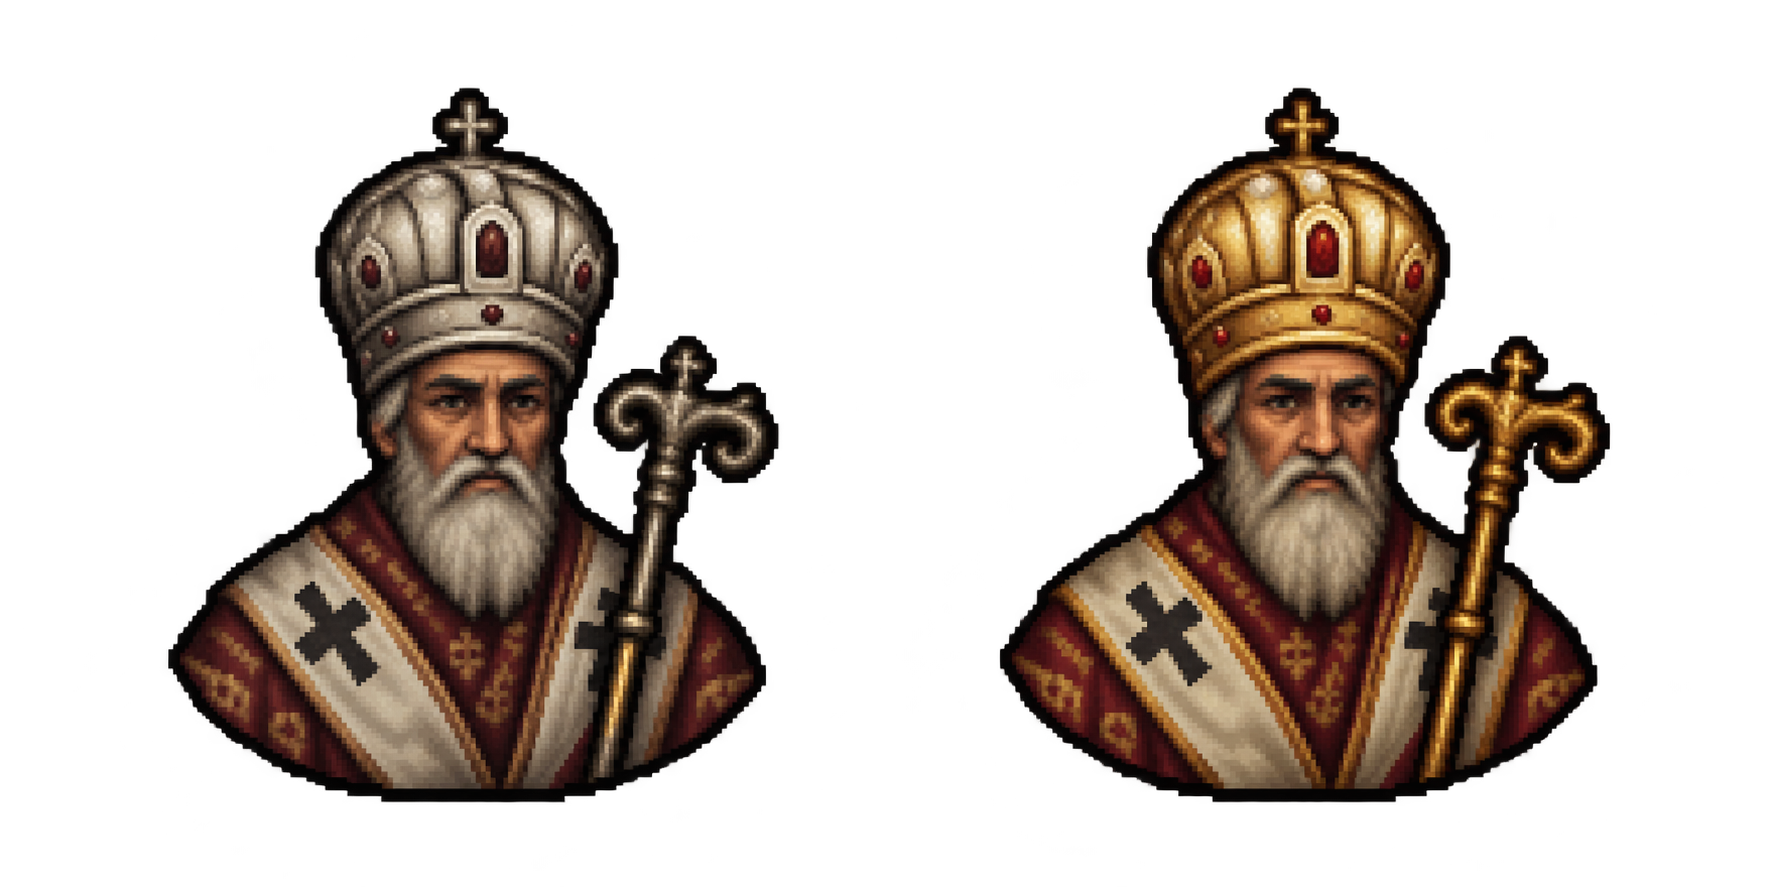
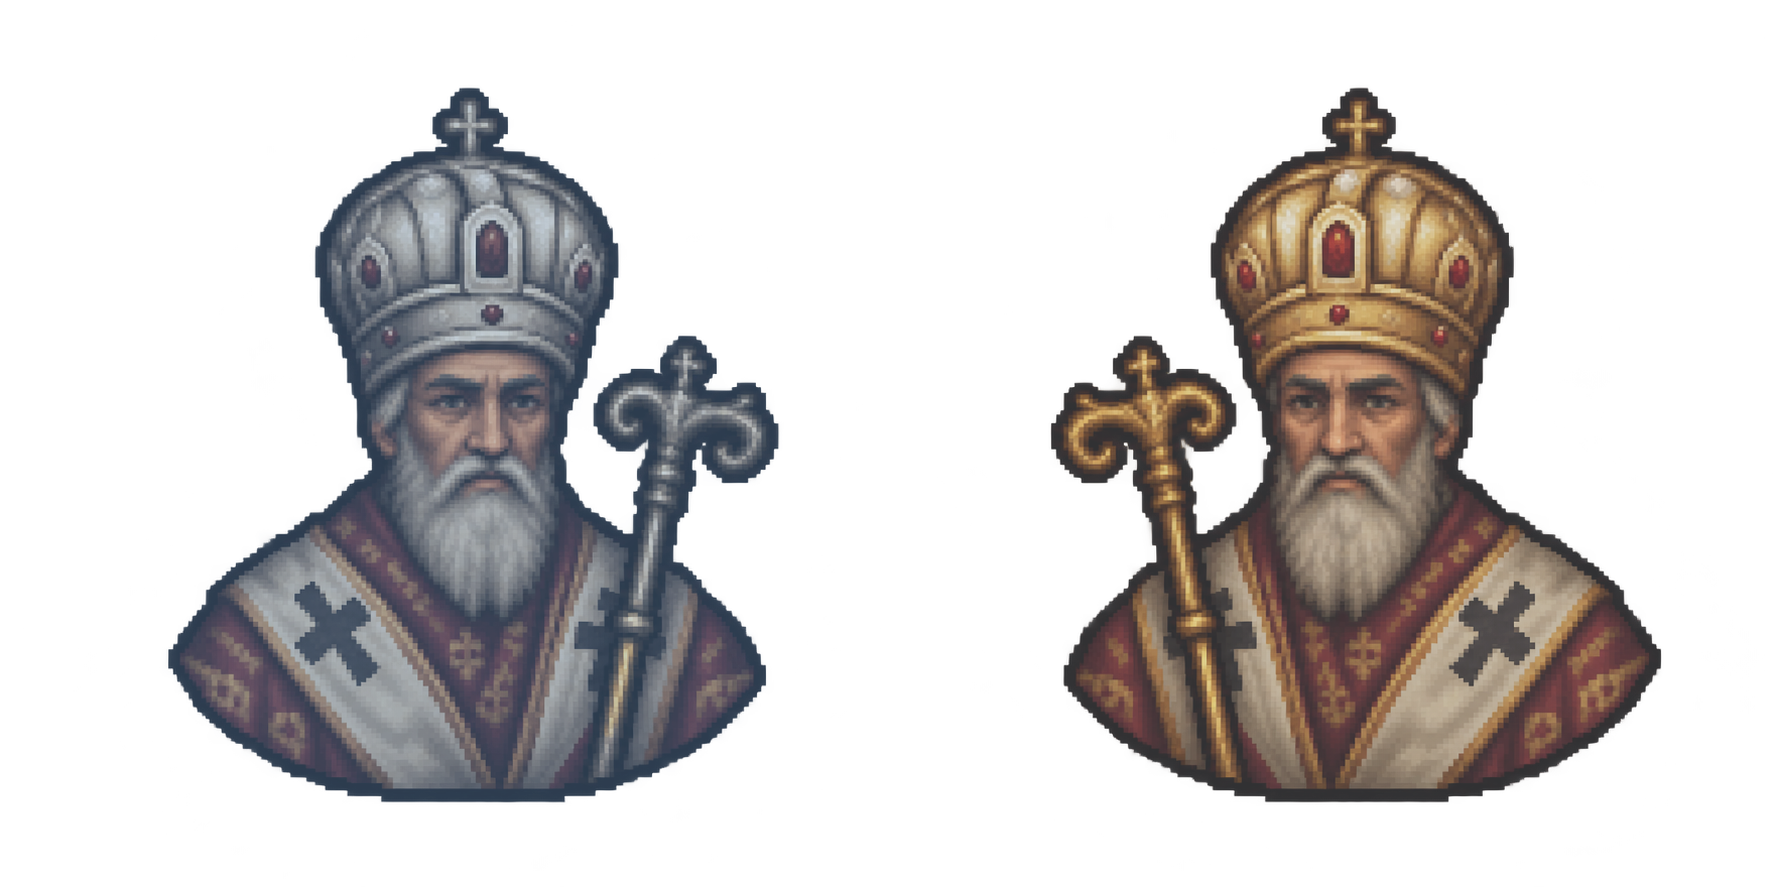
feat(gc_church_ui): Покращити UI, довідку та тестування Ієрархічної Спроможності греко-католиків
Розширено детальну інформацію про механіки Ієрархічної Спроможності (HC) в грі та документації. Оновлено іконки єпископів: змінено кольорову гаму та віддзеркалено іконку високої спроможності для кращого візуального зв'язку зі шкалою. Додано автоматизовані тести для перевірки узгодженості інтерфейсу, довідки та внутрішньої логіки.

diff --git a/tests/check_gc_capacity_ui.py b/tests/check_gc_capacity_ui.py
@@ -1,0 +1,102 @@
+"""Keep Greek Catholic Hierarchical Capacity help and art aligned with mechanics."""
+import struct
+from pathlib import Path
+
+from clausewitz_testlib import ROOT, named_block, read
+
+gui = read("interface/countryreligionview.gui")
+controls = read("common/custom_gui/RIP_church_controls.txt")
+assert (
+    'name = "rip_church_gc_capacity_high_icon" scripted = yes '
+    'spriteType = "GFX_rip_church_gc_capacity_high" position = { x=244 y=273 }'
+) in gui
+assert controls.count("tooltip = rip_church_gc_resources_tt") == 2
+
+help_text = (
+    "native Patriarch Authority bar (0–100)",
+    "+7.5 HC per year (+0.625 per month)",
+    "Country-specific events and mission rewards",
+    "Liturgy grants +1 yearly prestige",
+    "Learning grants -5% development cost and -5% technology cost",
+    "Almsgiving grants -1 global unrest and -10% stability cost",
+    "20 HC plus 75 ducats for Infrastructure",
+    "20 HC plus 100 ducats for Coexistence",
+    "A parish visit costs 5 HC, 100 ducats and 25 ADM",
+    "five-point bands",
+    "at 100, the country has -2% global missionary strength and -10% church influence",
+)
+localisation_generator = read("tools/build_church_localisation.py")
+for phrase in help_text:
+    assert phrase in localisation_generator, ("generator", phrase)
+for language in ("english", "french", "german", "spanish"):
+    localisation = read(
+        f"localisation/replace/zzzz_RIP_church_redesign_l_{language}.yml"
+    )
+    tooltip = next(
+        line for line in localisation.splitlines()
+        if line.startswith(" rip_church_gc_resources_tt:")
+    )
+    for phrase in help_text:
+        assert phrase in tooltip, (language, phrase)
+
+modifiers = read("common/event_modifiers/rip_church_gc_interaction_modifiers.txt")
+assert "prestige = 1 diplomatic_reputation = 1 improve_relation_modifier = 0.2" in named_block(
+    modifiers, "rip_church_gc_icon_liturgy"
+)
+assert "development_cost = -0.05 technology_cost = -0.05" in named_block(
+    modifiers, "rip_church_gc_icon_learning"
+)
+assert "global_unrest = -1 stability_cost_modifier = -0.1" in named_block(
+    modifiers, "rip_church_gc_icon_charity"
+)
+
+synod_modifiers = read("common/event_modifiers/RIP_church_redesign_modifiers.txt")
+assert "state_maintenance_modifier = -0.1 church_loyalty_modifier = 0.05" in named_block(
+    synod_modifiers, "rip_church_gc_infrastructure"
+)
+assert "global_unrest = -0.5 improve_relation_modifier = 0.1" in named_block(
+    synod_modifiers, "rip_church_gc_coexistence"
+)
+parish_modifiers = read("common/event_modifiers/rip_parish_visit_modifiers.txt")
+service_books = named_block(parish_modifiers, "rip_parish_service_books")
+assert "local_missionary_strength = 0.01" in service_books
+assert "local_tax_modifier = -0.05" in service_books
+alms_register = named_block(parish_modifiers, "rip_parish_alms_register")
+assert "local_unrest = -1" in alms_register
+assert "local_tax_modifier = -0.05" in alms_register
+
+centres = {}
+for kind in ("low", "high"):
+    path = ROOT / f"gfx/interface/rip_church/gc_archbishop_{kind}.dds"
+    data = path.read_bytes()
+    assert data[:4] == b"DDS "
+    height, width = struct.unpack_from("<II", data, 12)
+    assert (width, height) == (38, 38)
+    assert struct.unpack_from("<I", data, 88)[0] == 32
+    pixels = data[128:]
+    assert len(pixels) == width * height * 4
+    alpha_mass = 0
+    x_mass = 0
+    count = 0
+    red = green = blue = 0
+    for y in range(height):
+        for x in range(width):
+            offset = (y * width + x) * 4
+            b, g, r, a = pixels[offset:offset + 4]
+            if not a:
+                continue
+            count += 1
+            red += r
+            green += g
+            blue += b
+            alpha_mass += a
+            x_mass += x * a
+    assert count > 0 and alpha_mass > 0
+    centres[kind] = x_mass / alpha_mass
+    if kind == "low":
+        assert blue / count > red / count, "low icon should read cooler than warm red/gold"
+    else:
+        assert red / count > blue / count, "high icon should read warm"
+assert centres["low"] > 18.5 > centres["high"], "high icon should be mirrored toward the bar"
+
+print("GC CAPACITY UI PASS: tooltip/mechanics contracts, native art size, cool/warm tint and mirrored high icon")

diff --git a/tools/build_church_localisation.py b/tools/build_church_localisation.py
@@ -1124,10 +1124,16 @@ DATA['rip_church_gui_ecumenism_reason_tt']='[Root.GetChurchEcumenismReason]\\n'+
 for key in ('cardinal','vote','conclave'):
  DATA['rip_church_gui_right_'+key+'_tt']='Unavailable to the Greek Catholic Union. Papal opinion and deputations grant no cardinalship, Curia vote or conclave participation; there is no opinion threshold.'
 # PA is reused as a local administrative resource, not universal UGCC authority.
-GC_CAPACITY_HELP=('Hierarchical Capacity (HC) represents the local hierarchy and synod capacity to organize clergy, '
- 'sustain institutions and fund devotional initiatives. It is a gameplay abstraction using the native Patriarch Authority (PA) bar, '
- 'not a historical measurement of universal UGCC authority or standing with Rome. Papal relations are tracked separately. '
- 'The Greek Catholic state religion provides a base +7.5 HC per year (0.625 per month). Two icons and one synod cost 60 HC per ten years; one parish visit adds 5 HC, leaving 10 HC before other costs. No extra resource is granted on loading a save.')
+GC_CAPACITY_HELP=('Hierarchical Capacity (HC) is the Greek Catholic label for the native Patriarch Authority bar (0–100), '
+ 'used here as a gameplay abstraction for the local church administration, not as papal standing or a historical measure of universal UGCC authority. '
+ 'Recurring gain: +7.5 HC per year (+0.625 per month) from the Greek Catholic state religion. Country-specific events and mission rewards may also change the bar; '
+ 'there is no free refill when loading a save. One devotional icon at a time costs 20 HC and lasts five years: Liturgy grants +1 yearly prestige, +1 diplomatic reputation '
+ 'and +20% improve relations; Learning grants -5% development cost and -5% technology cost; Almsgiving grants -1 global unrest and -10% stability cost. '
+ 'A local synod lasts ten years and costs 20 HC plus 75 ducats for Infrastructure (-10% state maintenance, +5% church loyalty and -5% local autonomy in owned Greek Catholic core cities), '
+ 'or 20 HC plus 100 ducats for Coexistence (-0.5 global unrest, +10% improve relations and +5% local autonomy in recognized non-Greek-Catholic communities). '
+ 'A parish visit costs 5 HC, 100 ducats and 25 ADM, once per ten years: choose +1% local missionary strength or -1 local unrest in one eligible province; either choice also gives -5% local tax for ten years. '
+ 'The bar also recalculates country and province balancing modifiers in five-point bands, so HC is not an unconditional bonus: at 100, the country has -2% global missionary strength and -10% church influence; '
+ 'owned Greek Catholic provinces have +2.25/+2.625/+3 local unrest by region and -33% local manpower. Other decisions show their own HC thresholds and costs.')
 for key,value in list(DATA.items()):
  if (key.startswith(('rip_church_gc_', 'rip_church_readout_getchurchdevotional', 'rip_church_gui_shared_status'))
      or key in ('greek_catholic_religion_desc','rip_church.6.d','rip_church_gui_synod_tt')):

diff --git a/tests/run_all_tests.py b/tests/run_all_tests.py
@@ -32,6 +32,7 @@ scripts = [
     "tests/check_gc_icon_ai.py",
     "tests/check_gc_test_harness.py",
     "tests/check_gc_pa_pacing.py",
+    "tests/check_gc_capacity_ui.py",
     "tests/check_gc_synod_consequences.py",
     "tests/check_church_gui_routes.py",
     "tests/check_church_balance_protocol.py",

diff --git a/gfx/interface/rip_church/README.md b/gfx/interface/rip_church/README.md
@@ -4,12 +4,15 @@
 38×38 — штатний розмір кінцевих іконок Patriarch Authority. Видимі лише
 для `greek_catholic`. Нативні православні зображення не замінено глобально.
 PNG поряд — варіанти для перегляду; `gc_archbishop_source.png` — джерельний
-аркуш, створений вбудованим imagegen 1 жовтня 2026. Масштабування й
-конвертація у DDS виконані локально з прозорістю, без зміни малюнка.
+аркуш, створений вбудованим imagegen 1 жовтня 2026. Для UI-читабельності
+нижній індикатор охолоджено до синьо-срібного, верхній зігріто до золото-
+бордового й горизонтально віддзеркалено, щоб єпископський жезл дивився до
+шкали. Верхню іконку також посунуто ближче до шкали в
+`interface/countryreligionview.gui`. Прозорість і розмір кінцевих DDS збережено.
 
 Це символічний унійний архієпископ у східних ризах, не портрет конкретної
 історичної особи й не Папа. Прев’ю: `diagnostics/church_gui_20261001/archbishop_preview.png`.
 
 ## Промпт генерації
 
-Create a production game UI sprite sheet for Europa Universalis IV. Reference image shows the native patriarch authority endpoint busts enlarged 3x: use it ONLY as a style/scale reference, not as the character to copy. Output transparent PNG, 1024x512 or 2:1 aspect ratio. Two equal square cells side by side; one identical bust in each, fully contained with 10% transparent padding. Subject: a symbolic Ruthenian Greek Catholic UNION ARCHBISHOP, an Eastern-rite bishop in communion with Rome, not a pope. Front-facing elderly bishop bust, short grey beard, burgundy-red Eastern liturgical vestments, white omophorion with small dark crosses, a gold Byzantine domed mitre with a single small cross, slim Eastern episcopal crozier. No papal triple tiara, no coat of arms, no text, no frame, no background. Native EU4 miniature sprite aesthetic: hand-painted, restrained warm antique gold, dark fine silhouette, simplified facial features, high contrast readable at 38x38 pixels, slight worn oil-painted shading, NOT photorealistic, NOT glossy 3D, NOT cartoon. Left cell: identical bishop but desaturated silver and muted grey/burgundy, symbolizing low capacity. Right cell: same bishop same exact silhouette and position, full warm gold and burgundy colors, symbolizing high capacity. Maintain equal sprite sizes and aligned baselines. Transparent alpha background, no checkerboard baked in, no halos, no labels. Export the image to a local file if the tool provides file output.
+Create a production game UI sprite sheet for Europa Universalis IV. Reference image shows the native patriarch authority endpoint busts enlarged 3x: use it ONLY as a style/scale reference, not as the character to copy. Output transparent PNG, 1024x512 or 2:1 aspect ratio. Two equal square cells side by side; one identical bust in each, fully contained with 10% transparent padding. Subject: a symbolic Ruthenian Greek Catholic UNION ARCHBISHOP, an Eastern-rite bishop in communion with Rome, not a pope. Front-facing elderly bishop bust, short grey beard, burgundy-red Eastern liturgical vestments, white omophorion with small dark crosses, a gold Byzantine domed mitre with a single small cross, slim Eastern episcopal crozier. No papal triple tiara, no coat of arms, no text, no frame, no background. Native EU4 miniature sprite aesthetic: hand-painted, restrained warm antique gold, dark fine silhouette, simplified facial features, high contrast readable at 38x38 pixels, slight worn oil-painted shading, NOT photorealistic, NOT glossy 3D, NOT cartoon. Left cell: identical bishop but cool blue-silver and muted grey/burgundy, symbolizing low capacity. Right cell: the same bishop in warmer gold and burgundy, mirrored horizontally so the crozier points inward toward the gauge, symbolizing high capacity. Maintain equal sprite sizes and aligned baselines. Transparent alpha background, no checkerboard baked in, no halos, no labels. Export the image to a local file if the tool provides file output.

diff --git a/docs/GREEK_CATHOLIC_WINDOW_GUIDE.uk.md b/docs/GREEK_CATHOLIC_WINDOW_GUIDE.uk.md
@@ -154,6 +154,30 @@
 Patriarch Authority та тривають п'ять років. Одночасно діє лише одна. Вони
 не є ані православними нативними іконами, ані папськими петиціями.
 
+У підказці шкали **HC** тепер показані її регулярний приріст, витрати,
+бонуси і порогові ефекти. HC — лише греко-католицька назва нативної шкали
+Patriarch Authority; це умовна модель місцевої адміністрації, а не думка
+Папи. Державна греко-католицька віра щороку дає +0,075 PA (+7,5 пункту HC
+на шкалі 0–100); окремі місії та події можуть коригувати її. Безкоштовного
+поповнення при завантаженні немає.
+
+Синодальна інфраструктура коштує 20 PA й 75 дукатів на десять років:
+−10% утримання держав, +5% лояльності церкви та −5 пунктів місцевої
+автономії у власних греко-католицьких кор-містах. Співіснування коштує
+20 PA й 100 дукатів на десять років: −0,5 загального неспокою, +10%
+поліпшення відносин і +5 пунктів автономії визнаних громад іншої віри.
+Візитація парафії коштує 5 PA, 100 дукатів і 25 ADM раз на десять років;
+обрана провінція отримує або +1% місцевої сили місіонера, або −1
+неспокою, а обидва варіанти також дають −5% місцевого податку на десять
+років.
+
+Шкала додатково перераховує балансувальні модифікатори з кроком у п'ять
+пунктів; високий показник не є безумовною вигодою. При 100 HC держава
+отримує −2% загальної сили місіонера й −10% впливу церкви; її
+греко-католицькі провінції мають +2,25/+2,625/+3 неспокою залежно від
+регіону та −33% місцевих людських ресурсів. Інші рішення мають власні
+пороги й ціну, які показані в їхніх підказках.
+
 Греко-католицька віра щороку дає +0,075 PA для місцевої ієрархії. Це
 поповнення підтримує звичайний темп: одна ікона за п'ять років (0,04 PA
 на рік) і одна установа синоду за десять років (0,02 на рік), залишаючи
